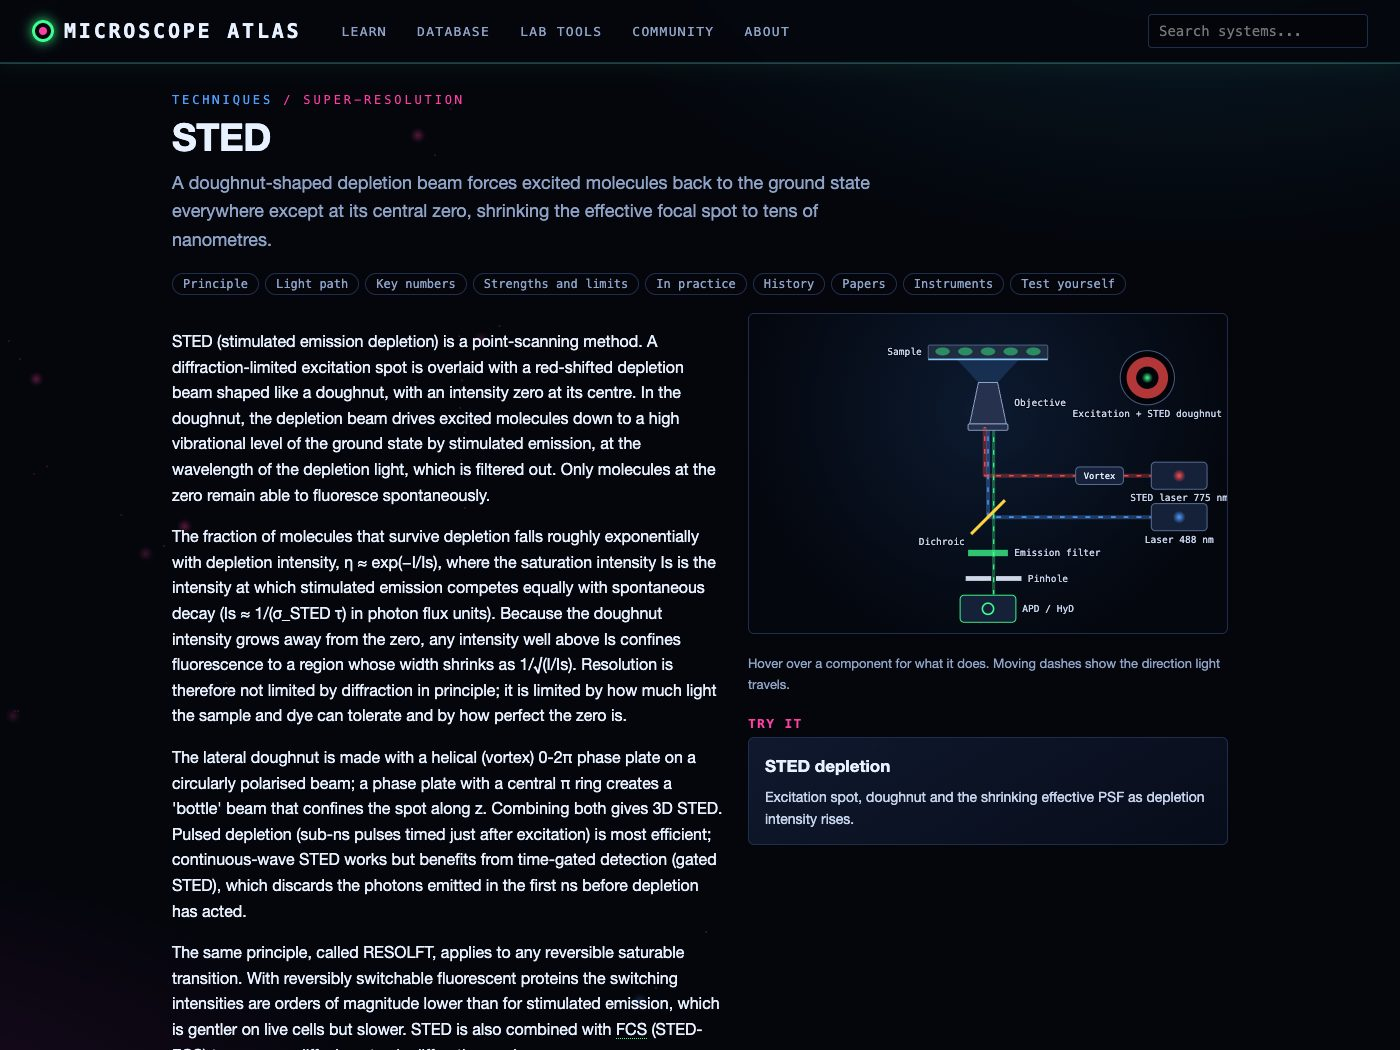
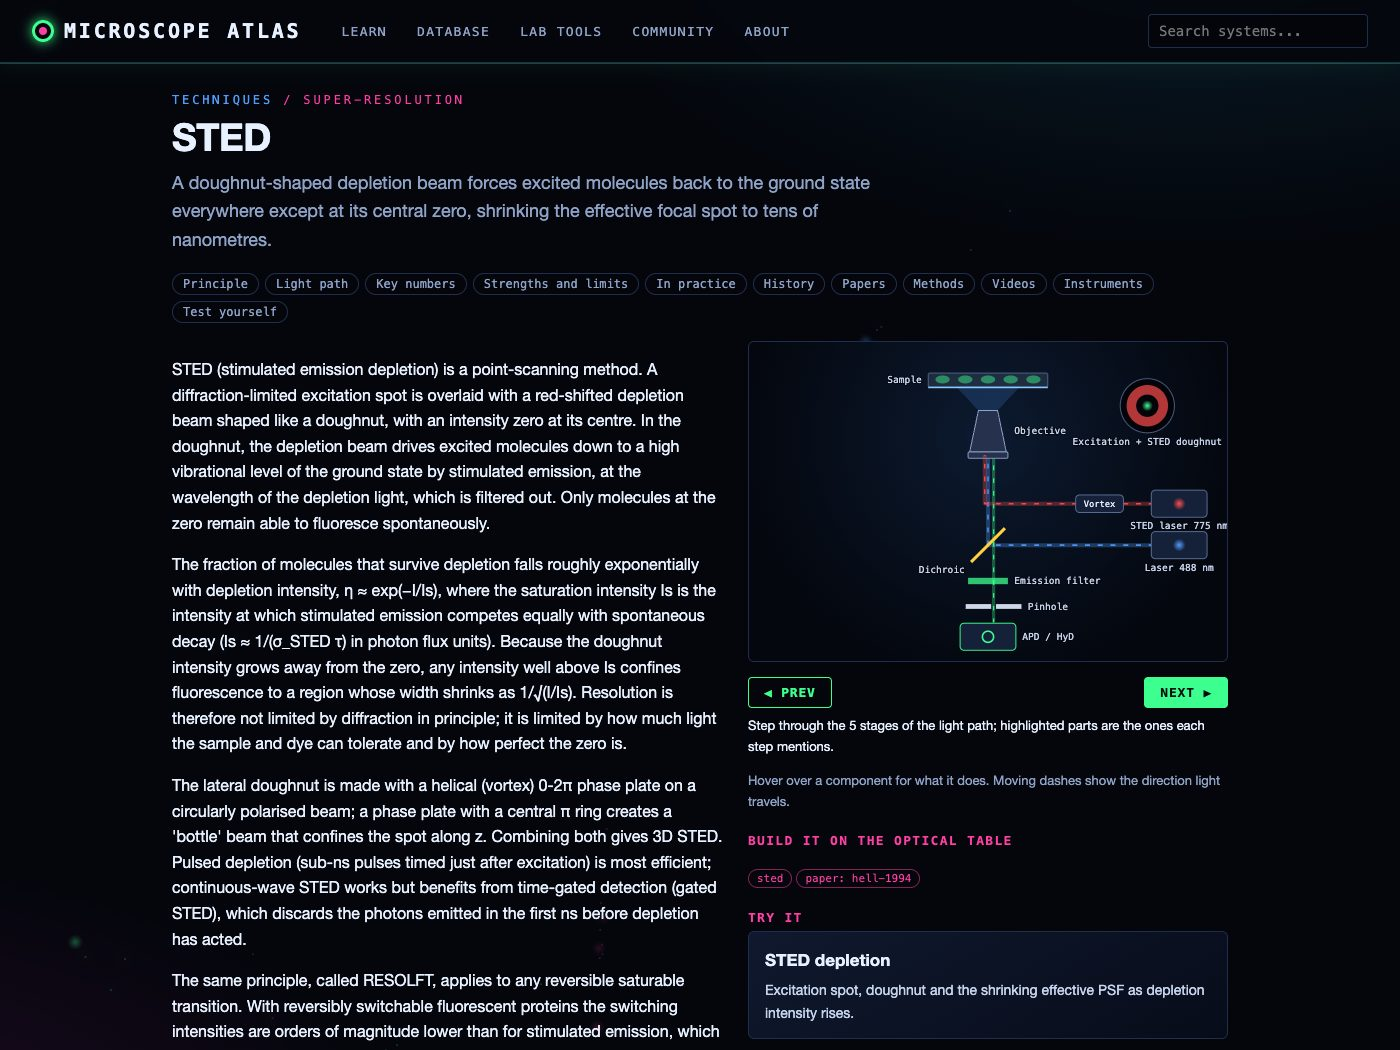
R3 complete: light-path step-through mode linking each step to highlighted diagram parts

Changed region(s): [[0.1229, 0.2438, 0.8907, 1.0]]

diff --git a/atlas/web/static/lightpath_steps.js b/atlas/web/static/lightpath_steps.js
@@ -1,0 +1,84 @@
+// Step-through for light-path diagrams: link each "Following the light" step to the diagram parts it mentions.
+// Pure matching (partsOf, matchSteps) is node-tested; stepper() wires it to the page.
+
+// A diagram part is a <g class="lp-..."> with a <title>, or a beam (<polyline> with a <title>), in document order.
+export function partsOf(svg) {
+  const out = [], re = /<g class="(lp-[a-z]+)"[^>]*>([\s\S]*?)<\/g>(?:<text class="lp-label[^"]*"[^>]*>([^<]*)<\/text>)?|<polyline class="[^"]*"[^>]*>(<title>[\s\S]*?<\/title>)<\/polyline>/g;
+  let m;
+  while ((m = re.exec(svg))) {
+    const t = /<title>([\s\S]*?)<\/title>/.exec(m[2] || m[4] || '');
+    if (t) out.push({ cls: m[1] || 'lp-beam', title: t[1], label: m[3] || '' });
+  }
+  return out;
+}
+
+// Step words → parts. `s` tests the step text; `p` tests "class title" of a part (lower case).
+const VOCAB = [
+  [/objective|high-na|immersion|lens(es)? focus/, /lp-obj|objective/],
+  [/dichroic|beam ?splitter|aobs|\bmirror/, /lp-dich|lp-mirror|beam ?splitter|dichroic/],
+  [/pinhole|slit/, /lp-pin|pinhole|slit/],
+  [/camera|detector|pmt|photomultiplier|hyd|spad|apd|scmos|emccd|ccd|eyepiece|photodiode|screen|spectrometer|transducer|array/, /lp-det|camera|detector|pmt|spectrometer|transducer|eyepiece|photodiode|quadrant/],
+  [/laser|lamp|\bled\b|source|filament|gun|emitter|supercontinuum/, /lp-src|laser|lamp|source|gun/],
+  [/filter|bandpass|notch/, /lp-filter|filter/],
+  [/sample|specimen|coverslip|tissue|cell|grid|slide|embryo|animal|mouse|brain/, /lp-sample|lp-specimen|sample|specimen|slide|tissue/],
+  [/condenser/, /condenser/],
+  [/tube lens/, /tube lens/],
+  [/scan|galvo|galvanometer|resonant|raster/, /scan|galvo/],
+  [/polari[sz]er|analy[sz]er|polari[sz]/, /polari[sz]er|analy[sz]er/],
+  [/prism|wollaston|nomarski/, /prism/],
+  [/annul|phase ring|phase plate|vortex/, /annul|phase|vortex/],
+  [/grating|disperse|dispersion/, /grating|dispers/],
+  [/fluorescence|emitted|emission|photons? (return|pass)/, /emitted|fluorescence|emission/],
+  [/excit/, /excitation/],
+  [/tcspc|timing|correlat|electronics|computer|software|reconstruct/, /tcspc|timing|correlat|electronics|computer|reconstruct|software/],
+  [/disk|nipkow|microlens/, /disk|nipkow/],
+  [/light sheet|sheet/, /sheet/],
+  [/wavefront|deformable|slm|adaptive/, /wavefront|deformable|slm|adaptive/],
+  [/tip|cantilever|probe/, /tip|cantilever|probe/],
+  [/feedback|setpoint/, /feedback/],
+  [/piezo|stage|goniometer/, /piezo|stage|goniometer/],
+  [/zone plate|x-ray/, /zone plate|x-ray/],
+  [/interfer|reference arm|reference beam/, /interfer|reference/],
+];
+
+const head = t => t.toLowerCase().split(/[:(;,]/)[0].trim();
+
+// For each step, the indices of the parts it mentions (vocabulary, or the part's own name appearing in the step).
+export function matchSteps(steps, parts) {
+  const keys = parts.map(p => `${p.cls} ${p.title} ${p.label || ''}`.toLowerCase());
+  return steps.map(step => {
+    const s = step.toLowerCase().split(';')[0], hit = new Set(); // the main clause names the parts
+    for (const [sr, pr] of VOCAB) if (sr.test(s)) keys.forEach((k, i) => { if (pr.test(k)) hit.add(i); });
+    parts.forEach((p, i) => { for (const h of [head(p.title), head(p.label || '')]) if (h.length >= 5 && s.includes(h)) hit.add(i); });
+    return [...hit];
+  });
+}
+
+// Page wiring: highlight parts for the current step; Prev/Next buttons and clicks on the step list both drive it.
+export function stepper(root, steps) {
+  const svg = root.querySelector('svg.lightpath'), box = root.querySelector('.lp-stepper'), ol = root.querySelector('ol.steps');
+  if (!svg || !box || !steps || !steps.length) return;
+  const els = [...svg.querySelectorAll('g[class^="lp-"], polyline')].filter(e => e.querySelector(':scope > title'));
+  const lab = e => { const n = e.nextElementSibling; return n && n.classList.contains('lp-label') ? n.textContent : ''; };
+  const hits = matchSteps(steps, els.map(e => ({ cls: e.tagName === 'polyline' ? 'lp-beam' : e.getAttribute('class'), title: e.querySelector(':scope > title').textContent, label: lab(e) })));
+  let cur = -1;
+  const show = i => {
+    cur = i;
+    svg.classList.toggle('lp-stepping', i >= 0);
+    els.forEach((e, k) => {
+      const on = i >= 0 && hits[i].includes(k), prev = e.previousElementSibling, next = e.nextElementSibling;
+      e.classList.toggle('lp-hi', on);
+      if (prev && prev.tagName === 'polyline') prev.classList.toggle('lp-hi', on); // a beam's halo
+      if (next && next.classList.contains('lp-label')) next.classList.toggle('lp-hi', on);
+    });
+    if (ol) [...ol.children].forEach((li, k) => li.classList.toggle('on', k === i));
+    box.querySelector('.lp-step-text').textContent = i < 0 ? `Step through the ${steps.length} stages of the light path; highlighted parts are the ones each step mentions.` : steps[i] + (hits[i].length ? '' : ' (not drawn as a separate part)');
+    box.querySelector('.lp-step-n').textContent = i < 0 ? '' : `${i + 1} / ${steps.length}`;
+  };
+  box.querySelector('[data-step="prev"]').onclick = () => show(cur <= 0 ? -1 : cur - 1);
+  box.querySelector('[data-step="next"]').onclick = () => show(cur >= steps.length - 1 ? -1 : cur + 1);
+  if (ol) [...ol.children].forEach((li, k) => { li.onclick = () => show(cur === k ? -1 : k); });
+  show(-1);
+}
+
+export const stepperHtml = () => `<div class="lp-stepper"><button class="btn alt" data-step="prev">◀ Prev</button><span class="lp-step-n"></span><button class="btn" data-step="next">Next ▶</button><p class="lp-step-text small"></p></div>`;

diff --git a/atlas/web/static/style_pages.css b/atlas/web/static/style_pages.css
@@ -29,7 +29,14 @@
 
 /* technique pages */
 .tech-head { display:grid; grid-template-columns:1.15fr 1fr; gap:24px; align-items:start; }
-.tech-head .lightpath { position:sticky; top:84px; }
+.tech-head .lp-wrap { position:sticky; top:84px; }
+.lp-stepper { display:grid; grid-template-columns:auto 1fr auto; gap:8px; align-items:center; margin-top:8px; }
+.lp-stepper button { margin:0; }
+.lp-stepper .lp-step-n { text-align:center; font:12px var(--mono); color:var(--mute, #8fa3c8); }
+.lp-stepper .lp-step-text { grid-column:1 / -1; margin:0; min-height:3.2em; }
+.lightpath.lp-stepping > *:not(.lp-hi):not(defs) { opacity:.22; transition:opacity .25s; }
+.lightpath.lp-stepping .lp-hi { filter:drop-shadow(0 0 4px #ffd23f) brightness(1.3); transition:opacity .25s; }
+ol.steps li { cursor:pointer; } ol.steps li.on { color:#ffd23f; }
 .steps { counter-reset:s; list-style:none; padding:0; }
 .steps li { counter-increment:s; position:relative; padding:6px 0 6px 36px; border-bottom:1px dashed var(--line); }
 .steps li::before { content:counter(s); position:absolute; left:0; top:6px; width:24px; height:24px; border-radius:50%; background:rgba(61,255,143,.12); color:var(--gfp); font:12px/24px var(--mono); text-align:center; }
@@ -68,7 +75,7 @@
 .seg { display:inline-flex; border:1px solid var(--line); border-radius:4px; overflow:hidden; margin:8px 0; }
 .seg button { margin:0; border-radius:0; background:transparent; color:var(--mute); box-shadow:none; padding:6px 12px; }
 .seg button.on { background:var(--gfp); color:#03100a; }
-@media (max-width:860px) { .tech-head, .sim, .canvases { grid-template-columns:1fr; } .tech-head .lightpath, .sim .controls { position:static; } .filters { grid-template-columns:1fr 1fr; } .bar-row { grid-template-columns:120px 1fr 30px; } }
+@media (max-width:860px) { .tech-head, .sim, .canvases { grid-template-columns:1fr; } .tech-head .lp-wrap, .sim .controls { position:static; } .filters { grid-template-columns:1fr 1fr; } .bar-row { grid-template-columns:120px 1fr 30px; } }
 .sim .controls { display:flex; flex-direction:column; } .sim .controls .readout { order:99; } .sim .controls > button { align-self:flex-start; }
 main:focus, main:focus-visible { outline:none; }
 .sim .view canvas { max-width:560px; margin:0 auto; }

diff --git a/atlas/web/static/techniques.js b/atlas/web/static/techniques.js
@@ -1,6 +1,7 @@
 // Technique index (grouped by family) and the technique teaching page.
 import { route, api, app, esc, list, bullets, doiLink, tags } from './core.js';
 import { lightPath, miniPath } from './lightpath.js';
+import { stepper, stepperHtml } from './lightpath_steps.js';
 import { linkify } from './links.js';
 import { gallery } from './images.js';
 import { videoCard } from './videos.js';
@@ -66,8 +67,9 @@ route('technique', async ([id]) => {
         ${t.equations && t.equations.length ? `<h3>Equations</h3>${list(t.equations, e => `<div><span class="eq">${esc(e.formula)}</span><p class="small"><b>${esc(e.name)}.</b> ${esc(e.meaning)}</p></div>`)}` : ''}
         ${res.xy || res.z ? `<h3>Resolution</h3><div class="kv"><div><b>${esc(res.xy || '—')}</b><span>lateral</span></div><div><b>${esc(res.z || '—')}</b><span>axial</span></div></div><p class="small mute">${esc(res.why || '')}</p>` : ''}
       </div>
-      <div>${lightPath(t.id, { family: t.family })}
-        <p class="small mute">Hover over a component for what it does. Moving dashes show the direction light travels.</p>
+      <div><div class="lp-wrap">${lightPath(t.id, { family: t.family })}
+        ${(t.light_path || []).length ? stepperHtml() : ''}
+        <p class="small mute">Hover over a component for what it does. Moving dashes show the direction light travels.</p></div>
         ${(TABLE_PRESETS[t.id] || []).length ? `<h3>Build it on the optical table</h3><p>${list(TABLE_PRESETS[t.id], p => `<a class="tag r" href="#/table/${p}">${p.replace(/^lit-/, 'paper: ')}</a>`)}</p>` : ''}
         ${t.sims.length ? `<h3>Try it</h3>${list(t.sims, s => `<a class="card" href="#/sim/${s.id}" style="margin:6px 0"><b>${esc(s.title)}</b><span>${esc(s.blurb)}</span></a>`)}` : ''}
       </div>
@@ -95,4 +97,5 @@ route('technique', async ([id]) => {
     const el = k && document.getElementById('s-' + k);
     if (el) { e.preventDefault(); el.scrollIntoView({ behavior: 'smooth' }); }
   });
+  stepper(app(), t.light_path);
 });

diff --git a/atlas/web/static/lightpath_defs.js b/atlas/web/static/lightpath_defs.js
@@ -128,7 +128,7 @@ export const DEFS = {
   tem: (P, C) => [
     P.beam([[X, 30], [X, 370]], C.e, 5, { tip: 'Electron beam (e.g. 200-300 kV)' }),
     P.box(X, 28, 120, 26, 'Electron gun (FEG)'), P.coil(X, 80, 110, 'Condenser lenses'),
-    P.sample(X, 140, 140, 'Specimen (thin section / vitreous ice)', { cover: false }),
+    P.sample(X, 140, 140, 'Specimen', { cover: false, t: 'Specimen: a thin section or vitreous ice on a 3 mm grid' }),
     P.coil(X, 180, 110, 'Objective lens'), P.box(X, 210, 80, 14, 'Objective aperture'),
     P.coil(X, 260, 110, 'Intermediate & projector'), P.detector(X, 360, 'Direct electron detector'),
     P.note(20, 392, 'Vacuum column; λ ≈ 2.5 pm at 200 kV. Contrast from scattering and phase (defocus).', C.part),

diff --git a/ROADMAP.md b/ROADMAP.md
@@ -12,7 +12,7 @@ Rules: sourced data only (see CLAUDE.md); new physics goes in `sim_engine.js` wi
 | R0 | First build: app, 51 technique pages, 18 simulations, systems database, FPbase fluorophores, README | Tests pass; every route renders without console errors | completed 2026-11-09 | 293 systems, 149 makers, 56 components, 1,013 fluorophores, 71 spectra, 208 self-test Q&As |
 | R1 | Data audit: re-check entries whose facts came from search-result summaries; fill null years; add Revvity Operetta CLS / Opera Phenix Plus, 3DHISTECH, Gatan K3, Zeiss Axiovert 200M, Siemens Elmiskop; add an `spm` technique id for STM; `scripts/check_links.py` for dead source URLs | Every doubtful item from the R0 agent reports resolved or marked; link check report committed | completed 2026-11-10 | 2026-11-10: link checker fixed (URL encoding); 10 dead sources replaced by Wayback snapshots of the same pages, 5 dropped where other sources remain; remaining failures are publisher 403s to scripts. Added Opera Phenix Plus, Operetta CLS, Gatan K3, then 3DHISTECH Pannoramic 1000, Axiovert 200M, Siemens Elmiskop I (298 systems). Added the `spm` (STM) technique: index entry, teaching page with 4 Crossref-checked papers, diagram, IBM STM entry retagged (52 techniques). Inferred statuses in confocal.json now sourced (FV3000, FVMPE-RS, LSM 7 MP; Cell Observer SD hardware status marked unconfirmed). Systematic re-reading moved to R12 |
 | R2 | Simulations II: deconvolution (Richardson-Lucy), aberrations and adaptive optics (Zernike modes, Strehl), Köhler illumination, DIC shear, FLIM phasor, FCS autocorrelation, cryo-EM CTF, tomography missing wedge, AFM tip convolution, spinning-disk crosstalk, expansion factor | 10 new sims, each with engine tests | completed 2026-11-10 | 2026-11-09 round 7: FFT/fft2, Zernike pupil PSF + Strehl, Maréchal, Gaussian blur, Richardson-Lucy, FLIM phasor (analytic, from sampled decays, τφ/τm), weak-phase CTF + Scherzer, missing-wedge reconstruction and Radermacher elongation in `sim_engine.js`, tested in `tests/sim_engine2.test.mjs`; 5 new sims (deconv, aberration, phasor, ctf, wedge; 23 total). 2026-11-10 round 8: Abbe/Köhler partial-coherence grating image, DIC interference, FCS trace + autocorrelation, AFM tip dilation, spinning-disk fill-factor model, expansion resolution, tested in `tests/sim_engine3.test.mjs`; 6 more sims (kohler, dic, afm, fcs, disk, expansion): 11 new, 29 total. `sim_engine.js` is at 447 lines: the next physics needs a split (e.g. `sim_engine_wave.js`) |
-| R3 | A dedicated light-path diagram for every technique (was 29 of 51), plus step-through mode tying `light_path` steps to highlighted components | 51 of 51 diagrams | in_progress | 2026-11-10 round 9: 22 new diagrams (FLIM, FRET, FCS, FRAP, SPT, spectral, Raman, CARS/SRS, SHG, QPI, iSCAT, OCT, photoacoustic, X-ray, CLEM, high-content, slide scanner, intravital, miniscope, adaptive optics, light field, open hardware) in `lightpath_defs2.js`, helpers moved to `lightpath_kit.js`; 52 of 52 techniques have their own diagram, enforced by `tests/lightpath.test.mjs`. Left: step-through mode |
+| R3 | A dedicated light-path diagram for every technique (was 29 of 51), plus step-through mode tying `light_path` steps to highlighted components | 51 of 51 diagrams | completed | 2026-11-10 round 9: 22 new diagrams (FLIM, FRET, FCS, FRAP, SPT, spectral, Raman, CARS/SRS, SHG, QPI, iSCAT, OCT, photoacoustic, X-ray, CLEM, high-content, slide scanner, intravital, miniscope, adaptive optics, light field, open hardware) in `lightpath_defs2.js`, helpers moved to `lightpath_kit.js`; 52 of 52 techniques have their own diagram, enforced by `tests/lightpath.test.mjs`. Round 10: step-through mode (`lightpath_steps.js`): Prev/Next or a click on a step highlights the parts it names (vocabulary + part-name matching on the main clause); 269 of 336 steps linked, coverage tested |
 | R4 | Image Lab: load your own image; PSF blur, noise, FFT, sampling, deconvolution; localize spots in a single-molecule frame | Works on a test TIFF/PNG; numbers checked against Python | pending | |
 | R5 | Microscope builder: pick objective, camera, lasers and filters from the database; compute resolution, sampling, field of view, expected photons and SNR | Configurator page with tests of the calculations | pending | |
 | R6 | Database growth: lasers and light sources, filter sets, more systems (target 450+), licensed instrument photos (Wikimedia Commons, with credits) | Validator passes; licence recorded per image | pending | |
@@ -32,7 +32,7 @@ ledger row, build, test, screenshot smoke test, log, commit, push.
 | 1 | R0 foundation | completed 2026-11-09 |
 | 2 | R1 data audit | completed 2026-11-10 |
 | 3 | R2 simulations II (first half) | completed 2026-11-09 |
-| 4 | R3 diagrams for every technique | pending |
+| 4 | R3 diagrams for every technique | completed |
 | 5 | R2 second half; R8 comparison matrix | R2 half completed 2026-11-10; R8 pending |
 | 6 | R4 Image Lab | pending |
 | 7 | R5 microscope builder | pending |

diff --git a/INTERFACE.md b/INTERFACE.md
@@ -27,7 +27,7 @@ JSON by `static_api.js`; Python-only tools show a notice.
 | `systems.js`, `systems_compare.js` | Systems browser with facets, system detail, manufacturers; comparison table and resolution chart (`picked` = compare list in localStorage) |
 | `components.js` | Detectors and objectives tables |
 | `techniques.js` | Technique index by family and the teaching page |
-| `lightpath.js`, `lightpath_kit.js`, `lightpath_defs.js`, `lightpath_defs2.js` | SVG light-path engine (`P` primitives, `lightPath`, `miniPath`, `hasDiagram`); shared layouts (`epi`, `transmitted`, `scanner`, `psfInset`, axis `X`/`Y`); per-technique diagrams (`DEFS`, `FAMILY_DEFAULT`; part 2 `DEFS2` merged in): one for each of the 52 techniques |
+| `lightpath.js`, `lightpath_kit.js`, `lightpath_defs.js`, `lightpath_defs2.js`, `lightpath_steps.js` | SVG light-path engine (`P` primitives, `lightPath`, `miniPath`, `hasDiagram`); shared layouts (`epi`, `transmitted`, `scanner`, `psfInset`, axis `X`/`Y`); per-technique diagrams (`DEFS`, `FAMILY_DEFAULT`; part 2 `DEFS2` merged in): one for each of the 52 techniques; step-through (`partsOf`, `matchSteps`, `stepper`) links `light_path` steps to highlighted parts |
 | `fluor.js` | Fluorophore table with Stokes plot; spectra viewer with lasers, bands and crosstalk tables |
 | `sims.js` | Simulation index and `#/sim/<id>` router; merges the sim modules below |
 | `sim_engine.js` | Pure physics (Airy, Bessel, TIRF depth, STED, localization precision, FRET, Soumpasis, random walks, MSD, FCS, electron λ, camera SNR, seeded RNG; FFT/`fft2`/`fftshift`, Zernike `aberratedPSF` + `marechal`, `gaussBlur`, `richardsonLucy`, FLIM `phasorOf`/`phasorFromDecay`/`phasorLifetimes`, `ctf`/`scherzer`, `missingWedge`/`wedgeElongation`, `abbeImage`, `dicImage`, `fcsTrace`/`autocorrelation`/`fcsConcentration`, `afmImage`/`tipShape`, `diskSectioning`, `expansionResolution`). Node-tested; near the 500-line budget |
@@ -70,6 +70,6 @@ JSON by `static_api.js`; Python-only tools show a notice.
 `validate_data.py` (schema check, used by tests) · `build_static.py` (static export) · `build_papers.py` · `check_links.py [--systems]` (reports in docs/) · `fetch_commons.py` (images) · `fetch_fpbase.py` (fluorophores and spectra) · `content/build_content.py` (fundamentals, glossary, portfolio) · `screenshots.py` (Playwright + Chrome: README figures in `docs/img` and a smoke test of every route; needs the server running).
 
 ## tests/
-`test_data.py` (validator, counts, every sim id has code) · `test_api.py` (routes) · `test_lab_files.py` (inspector endpoint) · `test_images.py` (licences, credits, ids, size) · `test_methods_videos.py` (methods coverage, video rows) · `table_engine.test.mjs` (ray-tracer physics and every preset) · `table_imaging.test.mjs` (PSF width, photon conservation, noise statistics, TIRF weighting, binning, modes per preset) · `lightpath.test.mjs` (every technique has a diagram that renders) · `test_js.py` runs every `tests/*.test.mjs` with node (sim engine incl. `sim_engine2/3.test.mjs` for Simulations II, lab setup, labelling, bench).
+`test_data.py` (validator, counts, every sim id has code) · `test_api.py` (routes) · `test_lab_files.py` (inspector endpoint) · `test_images.py` (licences, credits, ids, size) · `test_methods_videos.py` (methods coverage, video rows) · `table_engine.test.mjs` (ray-tracer physics and every preset) · `table_imaging.test.mjs` (PSF width, photon conservation, noise statistics, TIRF weighting, binning, modes per preset) · `lightpath.test.mjs` (every technique has a diagram that renders; step matching and coverage) · `test_js.py` runs every `tests/*.test.mjs` with node (sim engine incl. `sim_engine2/3.test.mjs` for Simulations II, lab setup, labelling, bench).
 
 Flow: `web/app.py` → `catalog` / `content` / `fluorophores` → `jsonio` → `data/`. Front end: `main.js` → page modules → `core.api` → `/api/...`.

diff --git a/SESSION_LOG.md b/SESSION_LOG.md
@@ -140,3 +140,11 @@ SHG, QPI interferometer, iSCAT, OCT Michelson, photoacoustic, X-ray zone plates,
 intravital, miniscope, adaptive optics loop, light field, open hardware). Shared helpers moved to `lightpath_kit.js`.
 All 52 techniques now have their own diagram (`tests/lightpath.test.mjs`); each was rendered and checked for overlaps
 and clipped labels. Techniques figure refreshed. Next in R3: step-through mode linking `light_path` steps to parts.
+
+## 2026-11-10: Round 10 (hourly), R3 completed
+Step-through mode for the light-path diagrams (`lightpath_steps.js`). Prev/Next under the diagram, or a click on a
+"Following the light" step, highlights the diagram parts that step names and dims the rest. Matching uses a small
+vocabulary (objective, dichroic, pinhole, detectors, sources, scanners, prisms...) plus each part's own name, taken from
+the step's main clause only (text before the first semicolon) to avoid over-highlighting. 269 of 336 steps link to at
+least one part; the rest say the step is not drawn as a separate part. Tested in `tests/lightpath.test.mjs`. TEM
+specimen label shortened (it was clipped). TIRF/STED page figures refreshed. Next: R4 Image Lab.

diff --git a/README.md b/README.md
@@ -44,7 +44,8 @@ Each page has:
 - the physics in plain language, with the key equations;
 - an animated light-path diagram drawn for that technique (all 52, from FLIM timing electronics to OCT
   interferometers and head-mounted miniscopes); hover a component to see what it does;
-- a walk along the light path, and the numbers worth remembering;
+- a step-through walk along the light path: Prev/Next (or clicking a step) highlights the parts of the diagram
+  that step mentions and dims the rest; and the numbers worth remembering;
 - strengths, limitations, sample preparation, bench tips and the artefacts people actually hit;
 - a history timeline and landmark papers;
 - the instruments in the database that use it;
